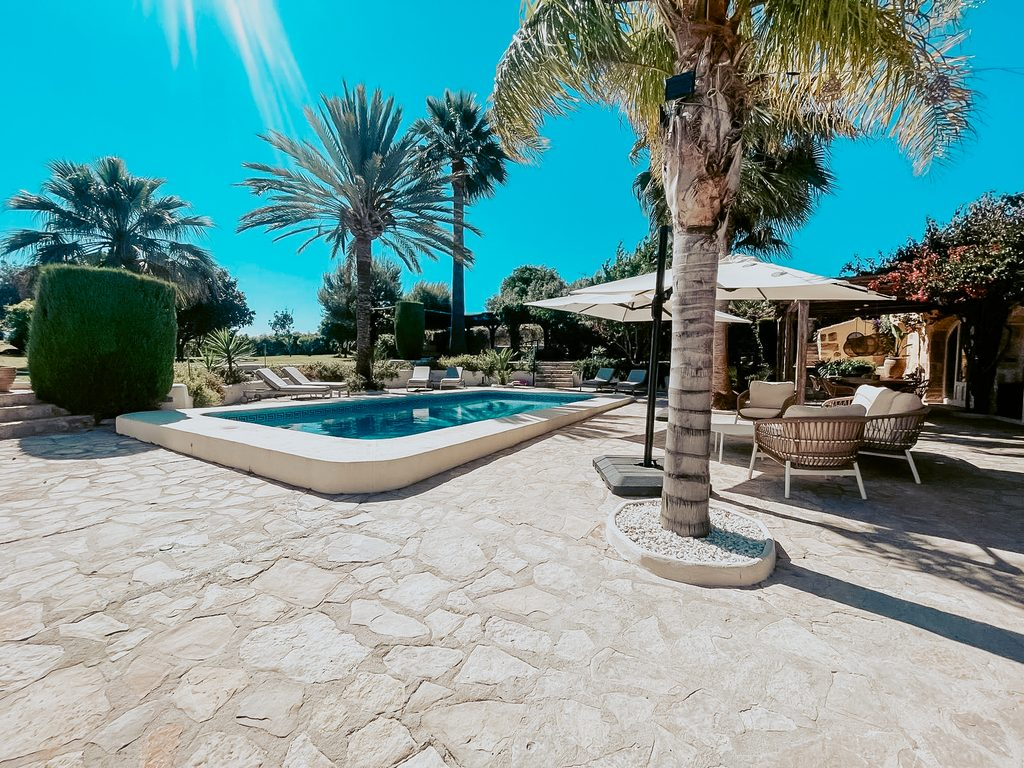
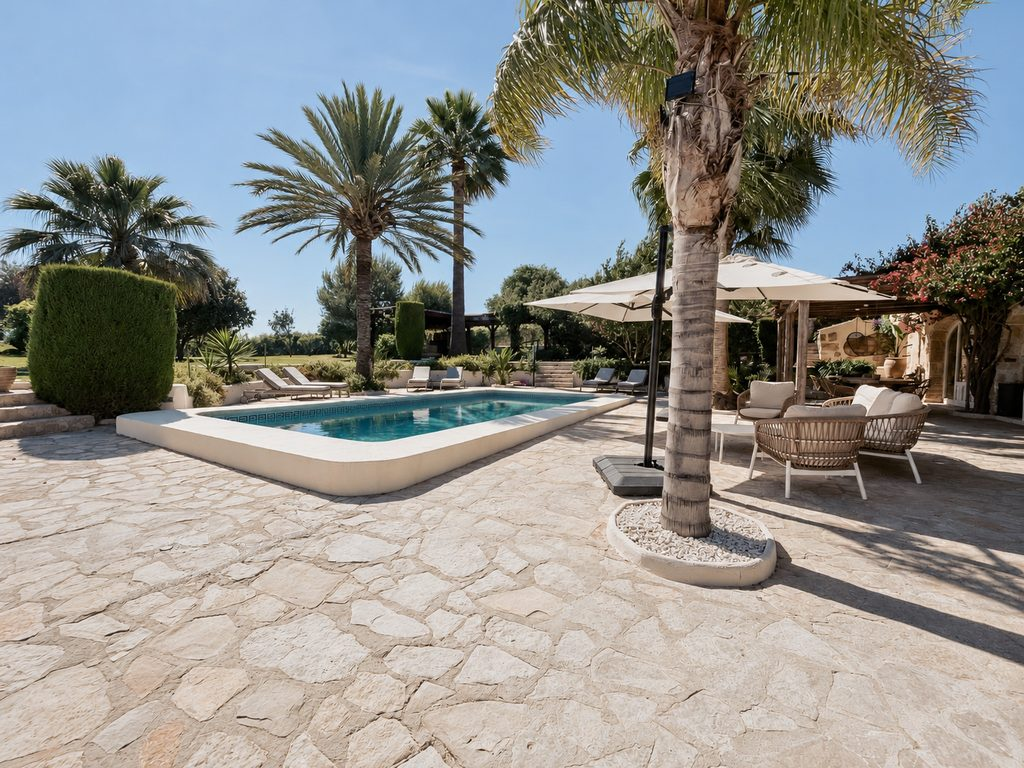
Reviews bevroren na scrollen; terrasfoto vervangen
Bug
De reviewrotatie pauzeerde op pointerenter, bedoeld als "pauzeer onder
de muis". Maar browsers vuren pointerenter ook wanneer de pagina onder
een stilstaande aanwijzer doorscrolt, of op basis van een onthouden
tikpositie, zonder dat er ooit een pointerleave volgt. Gevolg: na
gewoon doorscrollen stond de rotatie stil met een half gevulde ring.
Gevonden door de pagina te instrumenteren: na het scrollen volgde een
pointerenter met pointerType mouse en meteen daarna de pauze.

Fix: pauzeren bij een daadwerkelijke muisbeweging over het blok
(pointermove), hervatten bij pointerleave. Toetsenbordfocus en
achtergrondtab pauzeren nog steeds.

Foto
photo-2025-05-22-09-41-58-16 (terras bij het zwembad, hero-slide 2
en galerij) vervangen door de kleurgecorrigeerde upload; beide
verwijzingen bijgewerkt. Max van 1600 naar 1448px.

Doorgetest op geëmuleerde iPhone en MacBook: hero (dots, swipe,
autoplay, achtergrondtab), menu en ankers, reveal, galerij, lightbox
(muis, toetsen, swipe, Escape, omloop, scroll-lock, eigen reeks voor
Omgeving), reviews (rotatie, ring, klik, hover-pauze, vaste hoogte),
hover-effecten, WhatsApp-link, scrollprestaties. iPhone 34/34,
MacBook 34/35; het ene punt is dat drie foto's op volle breedte
alleen in 1448 of 1600px bestaan en op een 2x-scherm 2128px vragen.

Claude-Session: https://claude.ai/code/session_013UnB3bHaxkZnj5vBS3fQba

diff --git a/index.html b/index.html
@@ -1344,7 +1344,7 @@
     <div class="hero-frame" aria-hidden="true">
       <div class="hero-slides">
   <img srcset="images/bank-binnen-hero-640.jpg 640w, images/bank-binnen-hero-1024.jpg 1024w, images/bank-binnen-hero-1280.jpg 1280w, images/bank-binnen-hero-1448.jpg 1448w" sizes="100vw" src="images/bank-binnen-hero-1448.jpg" alt="" loading="eager" decoding="async" fetchpriority="high" class="is-active" />
-  <img srcset="images/photo-2025-05-22-09-41-58-16-640.jpg 640w, images/photo-2025-05-22-09-41-58-16-1024.jpg 1024w, images/photo-2025-05-22-09-41-58-16-1280.jpg 1280w, images/photo-2025-05-22-09-41-58-16-1600.jpg 1600w" sizes="100vw" src="images/photo-2025-05-22-09-41-58-16-1600.jpg" alt="" loading="lazy" decoding="async" />
+  <img srcset="images/photo-2025-05-22-09-41-58-16-640.jpg 640w, images/photo-2025-05-22-09-41-58-16-1024.jpg 1024w, images/photo-2025-05-22-09-41-58-16-1280.jpg 1280w, images/photo-2025-05-22-09-41-58-16-1448.jpg 1448w" sizes="100vw" src="images/photo-2025-05-22-09-41-58-16-1448.jpg" alt="" loading="lazy" decoding="async" />
   <img srcset="images/zwembad-drone-640.jpg 640w, images/zwembad-drone-1024.jpg 1024w, images/zwembad-drone-1280.jpg 1280w, images/zwembad-drone-1600.jpg 1600w, images/zwembad-drone-2000.jpg 2000w" sizes="100vw" src="images/zwembad-drone-2000.jpg" alt="" loading="lazy" decoding="async" />
   <img srcset="images/photo-2025-05-22-09-44-07-4-640.jpg 640w, images/photo-2025-05-22-09-44-07-4-1024.jpg 1024w, images/photo-2025-05-22-09-44-07-4-1280.jpg 1280w, images/photo-2025-05-22-09-44-07-4-1600.jpg 1600w" sizes="100vw" src="images/photo-2025-05-22-09-44-07-4-1600.jpg" alt="" loading="lazy" decoding="async" />
 </div>
@@ -1541,7 +1541,7 @@
 
     <div class="gallery" aria-label="Galerij">
       <!-- Aankomst -->
-      <div class="g span-12 reveal-l"><img srcset="images/photo-2025-05-22-09-41-58-16-640.jpg 640w, images/photo-2025-05-22-09-41-58-16-1024.jpg 1024w, images/photo-2025-05-22-09-41-58-16-1280.jpg 1280w, images/photo-2025-05-22-09-41-58-16-1600.jpg 1600w" sizes="(max-width: 560px) 100vw, (max-width: 1180px) calc(100vw - 56px), 1120px" src="images/photo-2025-05-22-09-41-58-16-1600.jpg" alt="Terras bij het zwembad onder de palmen" loading="lazy" decoding="async"></div>
+      <div class="g span-12 reveal-l"><img srcset="images/photo-2025-05-22-09-41-58-16-640.jpg 640w, images/photo-2025-05-22-09-41-58-16-1024.jpg 1024w, images/photo-2025-05-22-09-41-58-16-1280.jpg 1280w, images/photo-2025-05-22-09-41-58-16-1448.jpg 1448w" sizes="(max-width: 560px) 100vw, (max-width: 1180px) calc(100vw - 56px), 1120px" src="images/photo-2025-05-22-09-41-58-16-1448.jpg" alt="Terras bij het zwembad onder de palmen" loading="lazy" decoding="async"></div>
       <div class="g span-6 reveal-l"><img srcset="images/hihiphoto-2025-05-22-09-41-58-9-640.jpg 640w, images/hihiphoto-2025-05-22-09-41-58-9-1024.jpg 1024w, images/hihiphoto-2025-05-22-09-41-58-9-1280.jpg 1280w, images/hihiphoto-2025-05-22-09-41-58-9-1448.jpg 1448w" sizes="(max-width: 560px) 100vw, (max-width: 1180px) calc(100vw - 56px), 1120px" src="images/hihiphoto-2025-05-22-09-41-58-9-1448.jpg" alt="Voorgevel met bloeiende bougainville boven de bogen" loading="lazy" decoding="async"></div>
       <div class="g span-6 reveal-l"><img srcset="images/photo-2025-05-22-09-40-54-7-640.jpg 640w, images/photo-2025-05-22-09-40-54-7-1024.jpg 1024w, images/photo-2025-05-22-09-40-54-7-1280.jpg 1280w, images/photo-2025-05-22-09-40-54-7-1448.jpg 1448w" sizes="(max-width: 560px) 100vw, (max-width: 900px) calc(50vw - 36px), (max-width: 1180px) calc(50vw - 36px), 552px" src="images/photo-2025-05-22-09-40-54-7-1448.jpg" alt="Overdekte binnenplaats met terracotta tegels" loading="lazy" decoding="async"></div>
       <div class="g span-6 is-portrait reveal-l"><img srcset="images/photo-2025-05-22-09-40-54-14-640.jpg 640w, images/photo-2025-05-22-09-40-54-14-1024.jpg 1024w, images/photo-2025-05-22-09-40-54-14-1200.jpg 1200w" sizes="(max-width: 560px) 100vw, (max-width: 900px) calc(50vw - 36px), (max-width: 1180px) calc(50vw - 36px), 552px" src="images/photo-2025-05-22-09-40-54-14-1200.jpg" alt="Balkon met smeedijzeren tafeltje en bougainville" loading="lazy" decoding="async"></div>
@@ -1936,16 +1936,21 @@
         d.addEventListener('click', () => jump(n));
       });
 
-      // Let people finish reading: pause on hover and on keyboard focus.
-      wrap.addEventListener('mouseenter', stop);
-      wrap.addEventListener('mouseleave', start);
-      wrap.addEventListener('focusin', stop);
-      wrap.addEventListener('focusout', start);
-      if (nav){
-        nav.addEventListener('mouseenter', stop);
-        nav.addEventListener('mouseleave', start);
-        nav.addEventListener('focusin', stop);
-        nav.addEventListener('focusout', start);
+      // Let people finish reading: pause while a mouse is deliberately moved
+      // over the block, and on keyboard focus. Pausing on plain pointerenter
+      // is not enough: when the page scrolls underneath a parked cursor (or a
+      // remembered tap position), browsers fire pointerenter without any real
+      // movement and no leave ever follows — the rotation would freeze with a
+      // half-filled ring. A pointermove inside the block is an actual hover.
+      let hovering = false;
+      const onMove  = e => { if (e.pointerType === 'mouse' && !hovering) { hovering = true; stop(); } };
+      const onLeave = e => { if (e.pointerType === 'mouse' && hovering)  { hovering = false; start(); } };
+      for (const el of [wrap, nav]) {
+        if (!el) continue;
+        el.addEventListener('pointermove', onMove);
+        el.addEventListener('pointerleave', onLeave);
+        el.addEventListener('focusin', stop);
+        el.addEventListener('focusout', start);
       }
 
       document.addEventListener('visibilitychange', () => {
